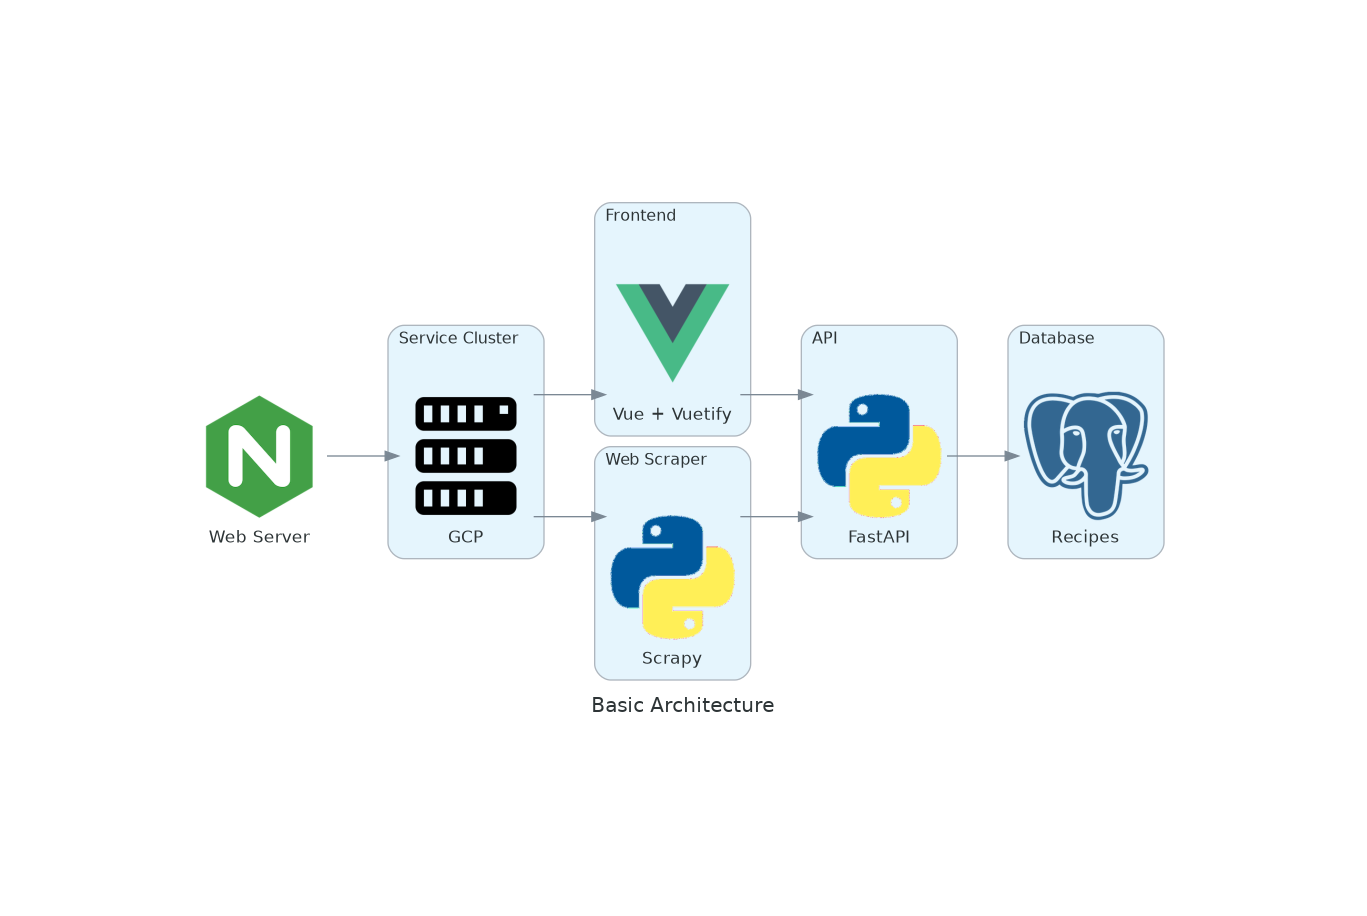
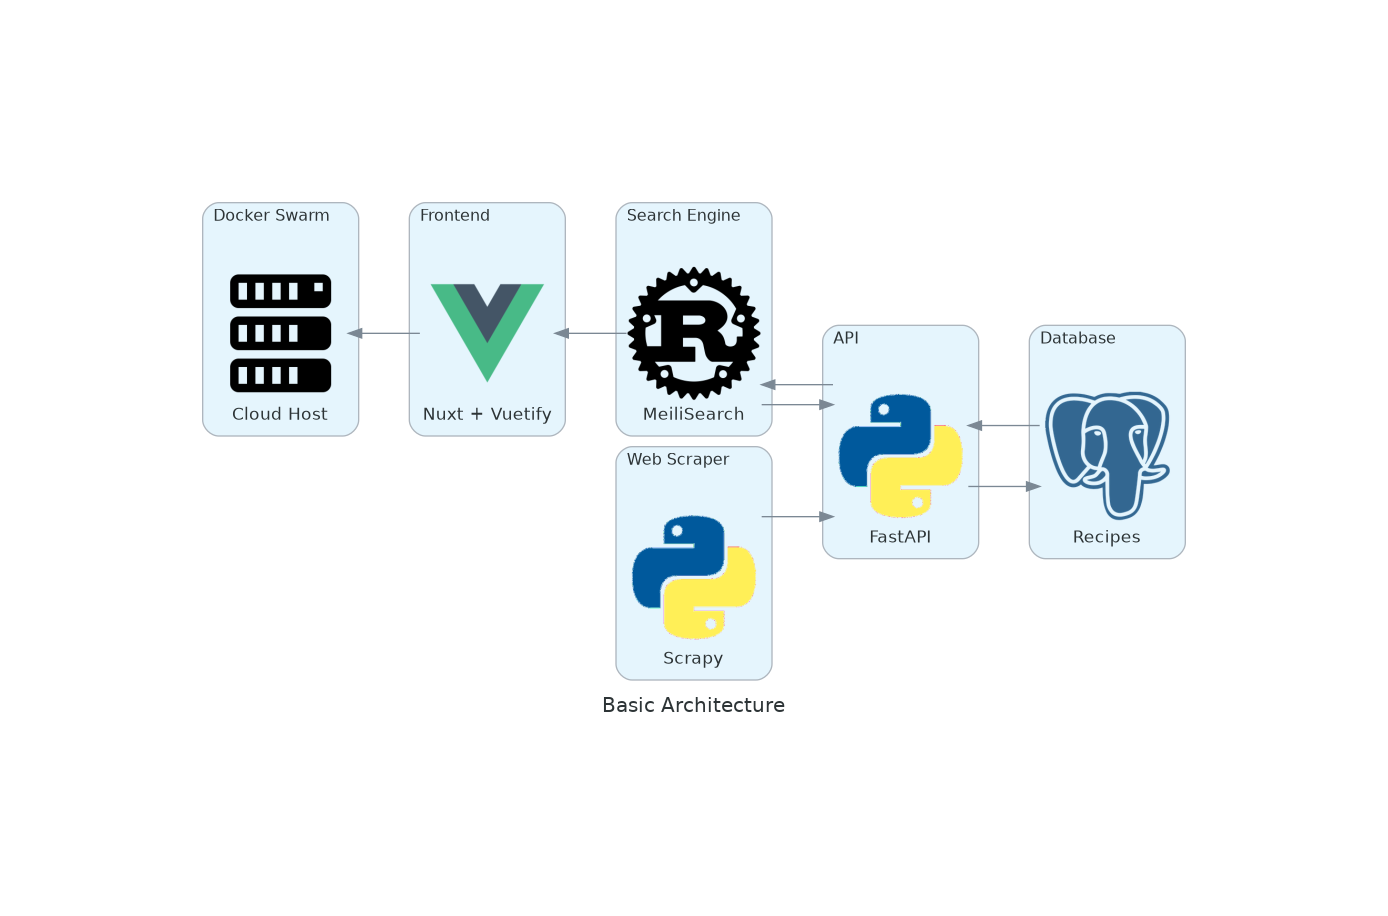
Simplify Mychef Overview post

Changed region(s): [[0.1229, 0.214, 0.8603, 0.7948], [0.5223, 0.7642, 0.553, 0.7948]]

diff --git a/static/img/mychef_overview/diagram.py b/static/img/mychef_overview/diagram.py
@@ -1,34 +1,38 @@
 from diagrams import Cluster, Diagram
-from diagrams.programming.language import Python
+from diagrams.programming.language import Python, Rust
 from diagrams.programming.framework import Vue
 from diagrams.onprem.compute import Server
 from diagrams.onprem.database import PostgreSQL
-from diagrams.onprem.network import Nginx
 
 graph_attr = {
     "bgcolor": "transparent"
 }
 
 with Diagram("Basic Architecture", outformat="png", graph_attr=graph_attr):
-    ingress = Nginx("Web Server")
 
-    with Cluster("Service Cluster"):
-        gcp = [
-            Server("GCP")
+    with Cluster("Docker Swarm"):
+        host = [
+            Server("Cloud Host")
         ]
 
     with Cluster("Frontend"):
-        frontend = Vue("Vue + Vuetify")
-        gcp >> frontend
+        frontend = Vue("Nuxt + Vuetify")
+        host << frontend
+
+    with Cluster("Search Engine"):
+        search = Rust("MeiliSearch")
+        frontend << search
 
     with Cluster("API"):
         api = Python("FastAPI")
-        frontend >> api
+        search >> api
+        api >> search
 
     with Cluster("Database"):
         db = PostgreSQL("Recipes")
         api >> db
+        db >> api
 
     with Cluster("Web Scraper"):
         scraper = Python("Scrapy")
-        ingress >> gcp >> scraper >> api
+        scraper >> api

diff --git a/content/post/mychef-overview.md b/content/post/mychef-overview.md
@@ -1,0 +1,36 @@
++++
+title = "MyChef Recipe Recommender"
+date = "2020-10-02"
+author = "Logan Connolly"
+description = "App that tells you what to make based on what you have in the kitchen"
++++
+
+# What is MyChef?
+
+An application developed to help you decide what to cook based on what you have in the kitchen. It is able to do this by scraping recipes from the best plant-based recipe sites on the web and bringing them together in one place. The search engine built into the application ranks the recipes based on the ingredients that you enter.
+
+# Architecture
+
+From a bird's eye view, the basic application architecture looks like:
+
+![](/img/mychef_overview/basic_architecture.png)
+
+
+General:
+* [Docker](https://www.docker.com/): for containerization of microservices
+* [PostgreSQL](https://www.postgresql.org/): relational database for storing recipe information
+* [Scrapy](https://scrapy.org/): a python library for scraping recipes from websites
+* [MeiliSearch](https://docs.meilisearch.com/) batteries included search engine developed in Rust
+
+API:
+* [FastAPI](https://fastapi.tiangolo.com/): a python async api framework that is fast and super easy to use
+* [Spacy](https://spacy.io/): a python library for nlp that comes with a bunch of great pretrained models
+
+UI:
+* [Nuxt](https://nuxtjs.org/): a js framework built on [Vue](https://vuejs.org/) for creating reactive sites with server side rendering 
+* [Vuetify](https://vuetifyjs.com/en/): bootstrap like js framework for creating pretty components
+
+
+# Find out more
+
+The website is not yet deployed, but visit https://github.com/logan-connolly/mychef to see the current status of the project.

diff --git a/content/projects.md b/content/projects.md
@@ -8,7 +8,8 @@ disqus = false
 MyChef is an application that helps you decide what meal to make. By entering into the application the ingredients that you have at home, mychef offers recommendations based on recipes that it's extracted from the web. Techstack:
 
 - {{< fa fab python >}}: FastAPI, Spacy, Scrapy
-- {{< fa fab vuejs >}}: Vue, Vuetify
+- {{< fa fab vuejs >}}: Nuxt, Vuetify
+- {{< fa fab rust >}}: MeiliSearch
 - {{< fa fab docker >}}: Docker
 - {{< fa database >}}: PostgreSQL
 
